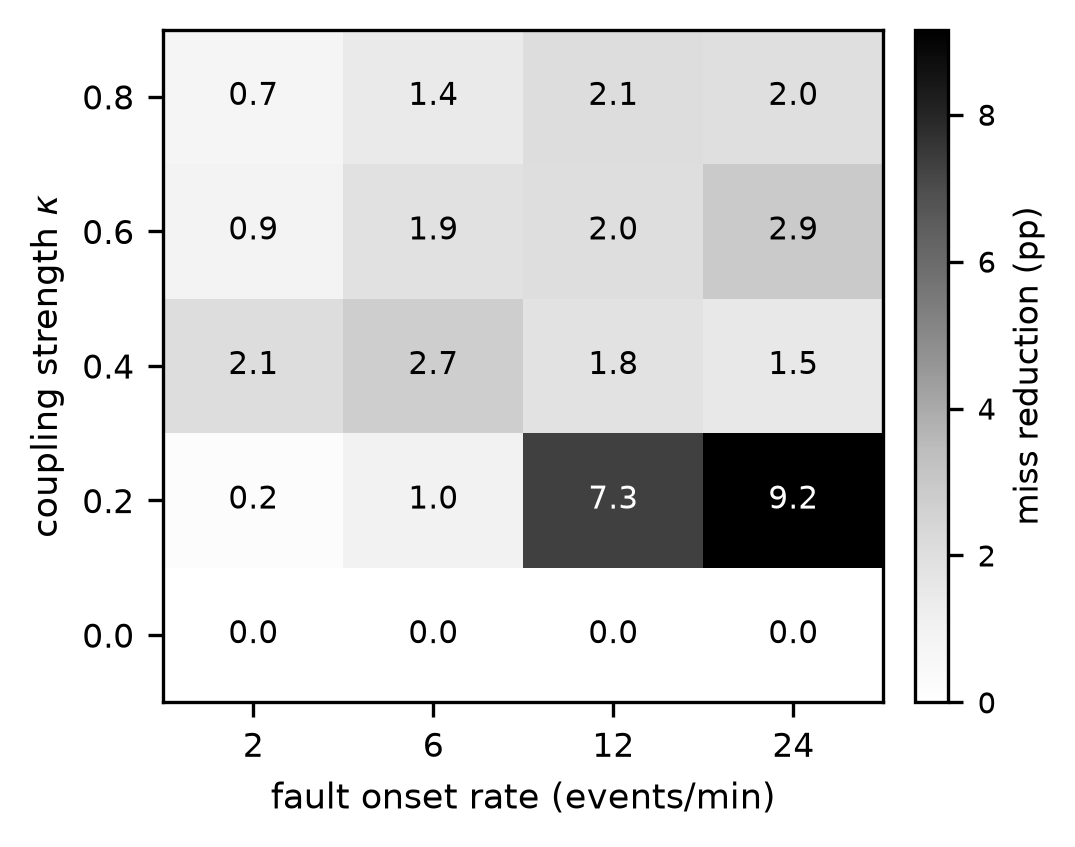
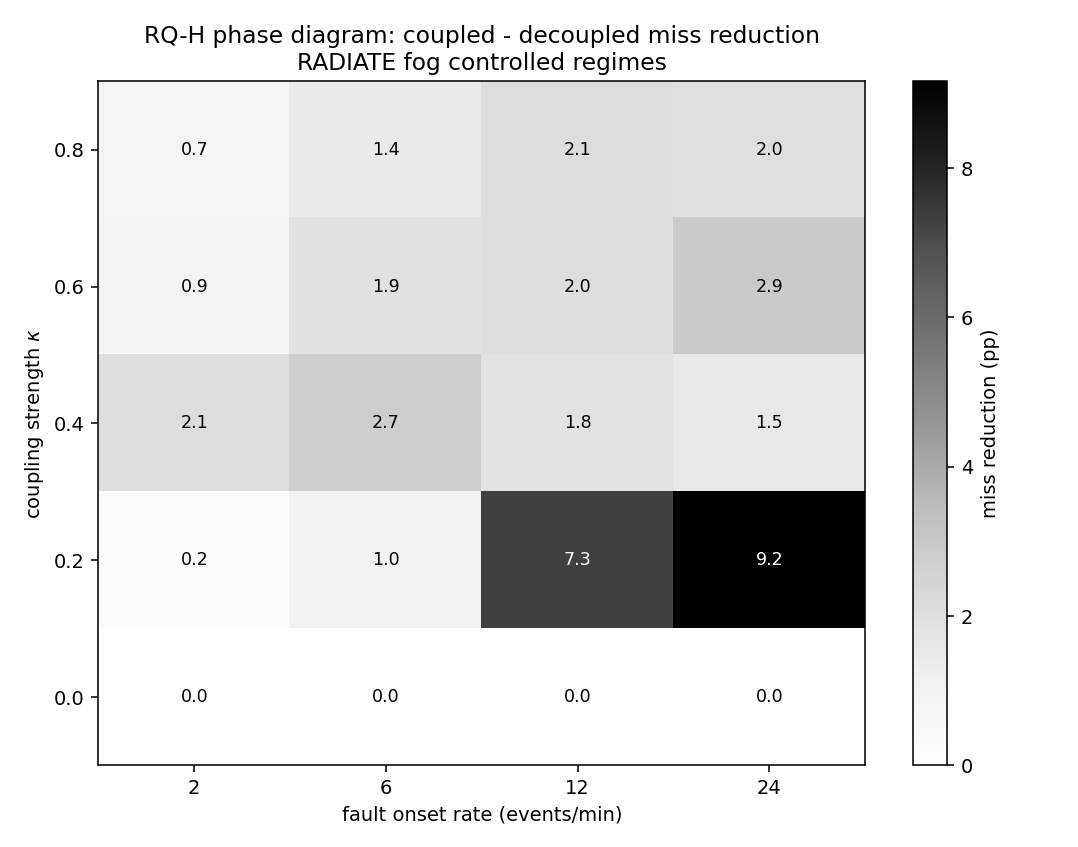
Clarify coupled policy terminology

diff --git a/paper/paper.tex b/paper/paper.tex
@@ -22,8 +22,8 @@
 
 \begin{document}
 
-\title{Belief-Space Perception Routing: Coupling Sensor-Fault\\
-and Compute-Contention Beliefs under Inference Deadlines}
+\title{Coupled Belief-Space Routing for Sensor Faults and\\
+Compute Contention under Inference Deadlines}
 
 \author{
   \IEEEauthorblockN{Sparsh Roy}
@@ -59,7 +59,7 @@ inference configuration.
 We evaluate on three real datasets and two camera geometries:
 TartanDrive off-road driving, RADIATE rain/snow/fog/night, and
 WoodScape fisheye soiling, with five seeds and 95\% confidence
-intervals. When faults and contention are coupled, the joint router
+intervals. Under the imposed coupled regimes, the coupled router
 reduces deadline misses by $1.1$ to $9.4$ percentage points,
 significant in five of six fault-bearing conditions. Fog is the
 largest case: faults are rare, but severe enough to make the
@@ -70,7 +70,8 @@ about as well as the noisy-OR policy, which places the contribution
 in the coupling signal rather than its functional form. Experiments
 ran on an Apple~M5; since the deadline is calibrated per device, we
 report relative deadline-miss changes rather than absolute latency.
-Code and data are released.%
+Code, configurations, processed outputs, and data-acquisition
+instructions are released.%
 \footnote{Repository: \url{https://github.com/VihanAggarwal/belief-space-perception-routing}}
 \end{abstract}
 
@@ -127,7 +128,7 @@ data loading, belief estimation, routing, and statistical analysis.
 
 The main result is shown in Fig.~\ref{fig:summary}. When sensor
 fault and compute contention are coupled, modeling the link reduces
-deadline misses. The size of the reduction follows how much the
+deadline misses. The size of the reduction appears to follow how much the
 degradation stresses the deadline, not simply how often faults
 occur. Fog is the clearest example: only $1.9\%$ of frames are
 faulted, but those episodes are severe enough that coupling saves
@@ -145,15 +146,16 @@ night, but hurts the fast flicker of rain droplets.
   \centering
   \includegraphics[width=\columnwidth]{fig_rqh_summary.png}
   \caption{Headline result (RQ-H). Reduction in deadline-miss rate
-  of the joint policy over the decoupled baseline, by condition,
+  of the coupled policy over the decoupled baseline, by condition,
   with 95\% CIs over five seeds. Filled circles: coupled regime,
   CI excludes zero. Square: coupled but not significant (snow).
   Grey crosses: the matched uncoupled control, exactly $0.0$\,pp in
   every case. TartanDrive appears twice: the full trajectory (no
   natural faults) is a clean negative control at $0.0$\,pp, while
   its high-degradation off-road segment is a significant $+3.0$\,pp.
-  The benefit tracks fault severity, not frequency: fog has the
-  fewest faults yet the largest effect.}
+  The condition-level pattern is more consistent with
+  deadline-binding degradation severity than with fault frequency
+  alone.}
   \label{fig:summary}
 \end{figure}
 
@@ -208,7 +210,7 @@ for embedded radar. These methods adapt computation, but they do
 not model runtime contention as a latent state tied to sensor
 health.
 
-\subsection{Joint Fault and Resource Modeling}
+\subsection{Coupled Fault and Resource Modeling}
 
 PRAM-R \cite{pramr2025} is the closest concurrent work: it routes
 modalities with an LLM-guided reliability mechanism, but it does not
@@ -382,7 +384,7 @@ they form the contention probability $p_{\text{cont}}^t$:
 \textbf{Decoupled}: $p_{\text{cont}}^t = b_c^t$ (compute belief
 alone).
 
-\textbf{Joint} (noisy-OR):
+\textbf{Coupled} (noisy-OR):
 \begin{equation}
   p_{\text{cont}}^t = 1 - (1 - b_c^t)\,(1 - \kappa\, b_f^t)
   \label{eq:noisyor}
@@ -407,7 +409,7 @@ evaluate abstention separately against an oracle.
 \subsection{Evaluation Policies}
 
 \begin{itemize}
-  \item \textbf{CoupledPolicy} (``joint''): noisy-OR coupling
+  \item \textbf{CoupledPolicy}: noisy-OR coupling
     (Eq.~\eqref{eq:noisyor}), $\kappa$ fit on calibration draw.
   \item \textbf{DecoupledPolicy}: compute belief only, same
     feasibility set.
@@ -559,10 +561,10 @@ dev-environment (Apple M5/MPS).}
 \end{tabular}
 \end{table}
 
-\subsubsection{RQ-H: Joint vs.\ Decoupled (Headline)}
+\subsubsection{RQ-H: Coupled vs.\ Decoupled (Headline)}
 
 Table~\ref{tab:rqh} and Fig.~\ref{fig:summary} give the main
-result. In the coupled regime, the joint policy lowers
+result. In the coupled regime, the coupled policy lowers
 deadline-miss rate in every fault-bearing condition. The reduction
 is significant in five of six: the off-road segment, rain, fog,
 night, and soiling. Snow is positive in point estimate, but its CI
@@ -577,8 +579,8 @@ scheduled independently. Fig.~\ref{fig:centerpiece} shows the
 per-condition view for fog, the strongest case.
 
 \begin{table*}[htbp]
-\caption{RQ-H. Deadline-miss rate, joint vs.\ decoupled, coupled
-regime. $\Delta = $ miss-rate reduction (decoupled $-$ joint), pp,
+\caption{RQ-H. Deadline-miss rate, coupled vs.\ decoupled, coupled
+regime. $\Delta = $ miss-rate reduction (decoupled $-$ coupled), pp,
 with 95\% CI; $^\ast$ = CI excludes zero. $r$ is the measured
 fault--contention correlation in the coupled regime; $\kappa$ is
 the fitted coupling coefficient. Every uncoupled control yields
@@ -591,7 +593,7 @@ $0.0$\,pp.}
 \toprule
 \textbf{Track} & \textbf{Condition} & \textbf{Frames} &
 \textbf{Fault \%} & \textbf{$r$} & \textbf{$\kappa$} &
-\textbf{Joint miss} & \textbf{Decoup.\ miss} &
+\textbf{Cpl.\ miss} & \textbf{Decoup.\ miss} &
 \textbf{$\Delta$ (pp)} & \textbf{Uncoupled $\Delta$} \\
 \midrule
 A & TartanDrive (full, clean) & 1198 & 0.0  & --   & --   & --    & --    & $0.00$ & $0.00$ \\
@@ -609,9 +611,9 @@ C & WoodScape soiling   & 3303 & 8.1  & 0.56 & 0.80 & 0.256 & 0.271 & $+1.56\ [1
   \centering
   \includegraphics[width=\columnwidth]{fig_rqh_fog.png}
   \caption{Per-condition RQ-H centerpiece (RADIATE fog, the
-  strongest effect). Joint vs.\ decoupled deadline-miss across five
+  strongest effect). Coupled vs.\ decoupled deadline-miss across five
   seeds in the coupled regime, with the uncoupled control. The
-  joint policy anticipates rare but severe fog episodes that make
+  coupled policy anticipates rare but severe fog episodes that make
   the reference config infeasible under contention.}
   \label{fig:centerpiece}
 \end{figure}
@@ -626,8 +628,8 @@ change fewer routing decisions. This is the regime where routing
 matters most: degradation is severe enough to bind the deadline.
 
 The most severe condition also shows the tradeoff. On rain, night,
-and soiling, joint and decoupled task accuracy are nearly matched
-(rain: $0.855$ vs.\ $0.857$). On fog, the joint policy gives up
+and soiling, coupled and decoupled task accuracy are nearly matched
+(rain: $0.855$ vs.\ $0.857$). On fog, the coupled policy gives up
 task accuracy ($0.861$ vs.\ $0.954$) to cut misses by $9.4$\,pp,
 because it downshifts before predicted contention. We therefore
 treat deadline-miss as the primary metric: in a deadline-controlled
@@ -653,7 +655,7 @@ the accuracy cost cancels it in expected on-time accuracy.
 $U=\frac{1}{T}\sum_t a_t\mathbf{1}[\ell_t\le D]$ (per-frame on-time
 utility: each frame scores its accuracy if on time, zero if late).
 $\Delta U$
-(joint $-$ decoupled, pp) with paired 95\% CI; $^\ast$ excludes
+(coupled $-$ decoupled, pp) with paired 95\% CI; $^\ast$ excludes
 zero. All point estimates are nonnegative.}
 \label{tab:utility}
 \centering
@@ -661,7 +663,7 @@ zero. All point estimates are nonnegative.}
 \setlength{\tabcolsep}{2.5pt}
 \begin{tabular}{lcccc}
 \toprule
-\textbf{Condition} & \textbf{$U$ jnt} & \textbf{$U$ dec} &
+\textbf{Condition} & \textbf{$U$ cpl} & \textbf{$U$ dec} &
 \textbf{$\Delta U$ (pp)} & \textbf{95\% CI} \\
 \midrule
 TartanDrive off-road & 0.628 & 0.601 & $+2.67^\ast$ & $[2.16, 3.17]$ \\
@@ -681,8 +683,8 @@ rule-based baseline:
 $p_{\text{cont}}^t = \max(b_c^t,\,\mathbf{1}[b_f^t > 0.5])$. This
 hard union downshifts whenever either belief is high. As shown in
 Table~\ref{tab:baseline}, the threshold rule performs similarly to
-the noisy-OR joint policy on every condition. The
-joint$-$threshold difference stays within $\pm0.5$\,pp and every CI
+the noisy-OR coupled policy on every condition. The
+coupled$-$threshold difference stays within $\pm0.5$\,pp and every CI
 includes zero, while both coupled methods beat the decoupled
 baseline by nearly the same amount. We do not claim formal
 equivalence; an equivalence test with a $\pm1$\,pp margin is
@@ -699,16 +701,40 @@ beliefs, compute belief, and deadline. Supervision comes from
 per-frame oracle config labels. Each track is split temporally, with
 the first $70\%$ of frames for training and the last $30\%$ held out,
 and no frame shared. On held-out frames, the MLP is competitive but
-inconsistent: lower deadline-miss on three tracks and higher on
-four, with high variance on short single-sequence traces. We report
-it as a baseline rather than a contribution. Across observation
-noise levels, the joint$-$threshold gap remains within
+inconsistent across the seven track-level sequence splits in
+Table~\ref{tab:mlp}: lower deadline-miss on three splits and higher
+on four. We report it as a baseline rather than a contribution.
+Across observation noise levels, the coupled$-$threshold gap remains within
 $\pm1.2$\,pp, n.s., for noise $\sigma$ up to $0.75$ on fog and rain.
 
 \begin{table}[htbp]
+\caption{Learned-router audit. The MLP uses the same belief features
+as the coupled policy and is trained on temporally split oracle
+labels. $\Delta$ = MLP $-$ coupled deadline-miss rate, pp;
+$^\ast$ = paired CI excludes zero.}
+\label{tab:mlp}
+\centering
+\scriptsize
+\setlength{\tabcolsep}{3pt}
+\begin{tabular}{lccc}
+\toprule
+\textbf{Split} & \textbf{Cpl.} & \textbf{MLP} & \textbf{$\Delta$ (pp)} \\
+\midrule
+Fog      & 0.164 & 0.167 & $+0.22$ \\
+Night    & 0.427 & 0.169 & $-25.78^\ast$ \\
+Rain     & 0.000 & 0.311 & $+31.11^\ast$ \\
+Snow     & 0.289 & 0.324 & $+3.56$ \\
+Soiling  & 0.301 & 0.339 & $+3.79^\ast$ \\
+A-full   & 0.340 & 0.204 & $-13.56$ \\
+A-seg.   & 0.422 & 0.222 & $-20.00^\ast$ \\
+\bottomrule
+\end{tabular}
+\end{table}
+
+\begin{table}[htbp]
 \caption{Deadline-miss rate (coupled regime): a simple threshold
-rule performs similarly to the noisy-OR joint policy.
-$\Delta$(J$-$thr) is the joint advantage over the threshold rule
+rule performs similarly to the noisy-OR coupled policy.
+$\Delta$(Cpl$-$thr) is the coupled-policy advantage over the threshold rule
 (pp, 95\% CI); all include zero (no detectable difference).}
 \label{tab:baseline}
 \centering
@@ -717,7 +743,7 @@ $\Delta$(J$-$thr) is the joint advantage over the threshold rule
 \begin{tabular}{lcccc}
 \toprule
 \textbf{Cond.} & \textbf{Decoup.} & \textbf{Threshold} &
-\textbf{Joint} & \textbf{$\Delta$(J$-$thr)} \\
+\textbf{Cpl.} & \textbf{$\Delta$(Cpl$-$thr)} \\
 \midrule
 A-seg   & 0.279 & 0.249 & 0.249 & $+0.0\ [-0.0,0.0]$ \\
 rain    & 0.244 & 0.233 & 0.233 & $+0.1\ [-0.1,0.3]$ \\
@@ -755,7 +781,7 @@ real; per-condition deadline sweeps remain future work.
 
 \begin{table}[htbp]
 \caption{Deadline-strictness sweep (RADIATE fog, coupled regime).
-Multiplier scales the self-calibrated deadline. The joint advantage
+Multiplier scales the self-calibrated deadline. The coupled-policy advantage
 peaks where the reference config is borderline-feasible.}
 \label{tab:deadline}
 \centering
@@ -797,7 +823,7 @@ zero benefit.
 \begin{figure}[t]
   \centering
   \includegraphics[width=\columnwidth]{fig_phase_diagram.png}
-  \caption{RQ-H phase diagram (RADIATE fog): joint$-$decoupled
+  \caption{RQ-H phase diagram (RADIATE fog): coupled$-$decoupled
   deadline-miss reduction over a coupling-strength $\times$
   fault-onset-rate grid of controlled regimes. The bottom row
   ($\kappa{=}0$) is the no-coupling control and is exactly zero
@@ -985,7 +1011,7 @@ We built a deadline-aware perception router that estimates
 sensor-fault belief and compute-contention belief with separate HMMs
 and couples them at decision time. Across three real datasets and
 two camera geometries, coupling reduced deadline misses by $1.1$ to
-$9.4$ points when the two failures were correlated. The gain was
+$9.4$ points when contention was scheduled to depend on fault onset. The gain was
 zero in every matched uncoupled control and zero on a fault-free
 trajectory. The benefit appears to track how severely a degradation
 strains the deadline, not just how often faults occur, and a simple